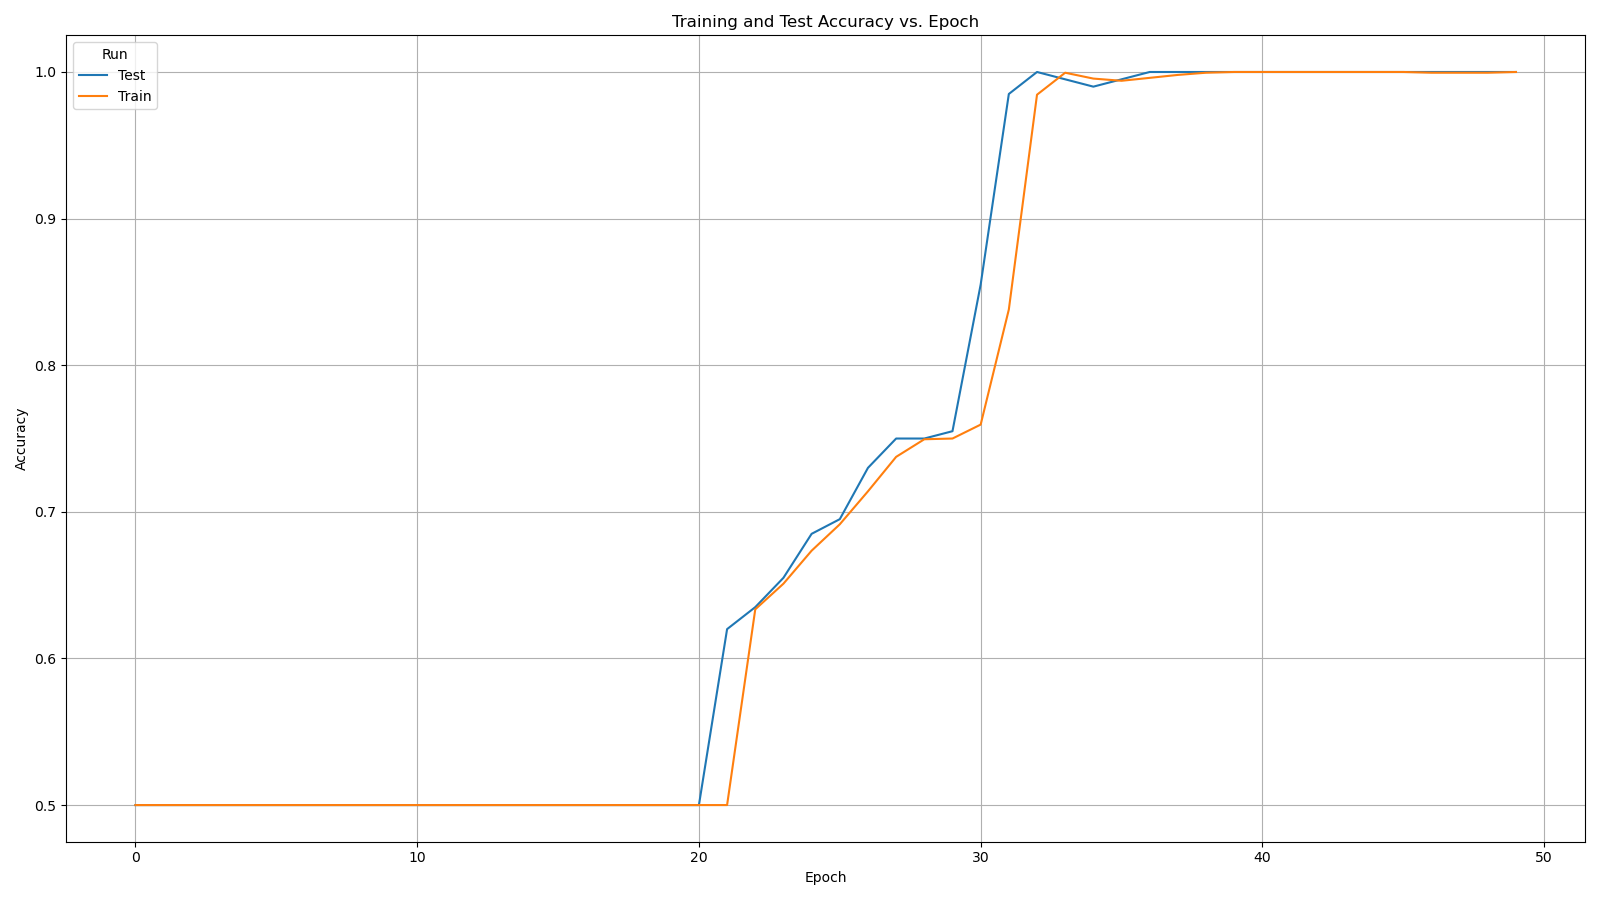
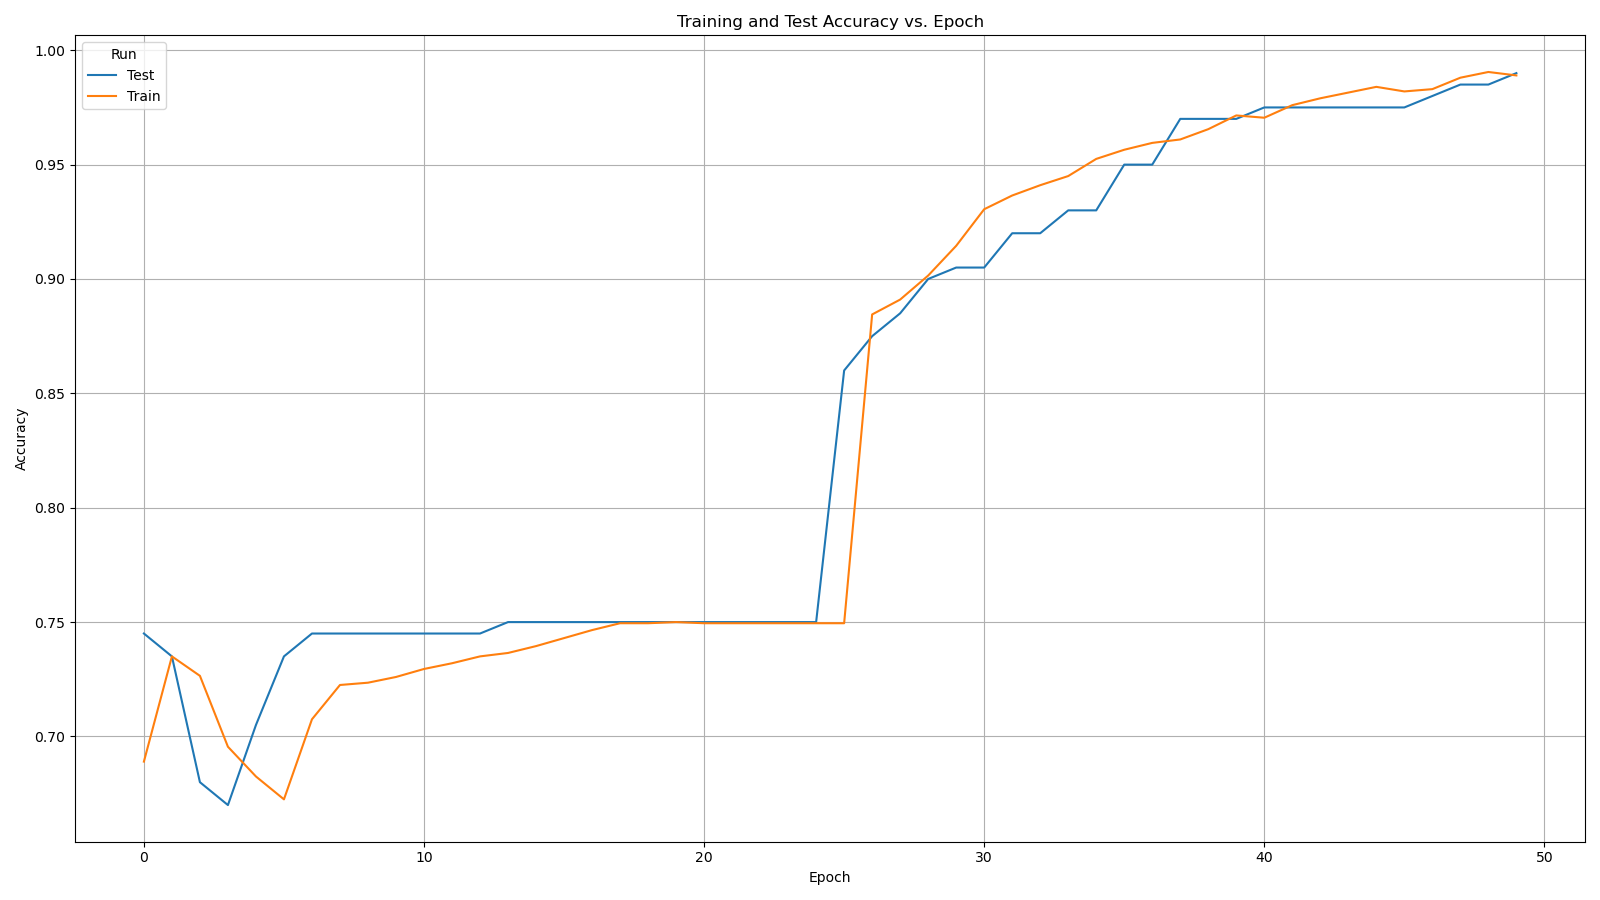
Changed optimizer to accept probabilities instead of logits

diff --git a/proj_xor/models.py b/proj_xor/models.py
@@ -30,7 +30,7 @@ class ProjXORModel(Model):
         ]
 
         self._loss_dtype = BinaryCrossentropyLoss
-        self.loss_object = self._loss_dtype(from_logits=True)
+        self.loss_object = self._loss_dtype(from_logits=False)
 
         self._optimizer_schedule = ExponentialDecay(
             0.1,
